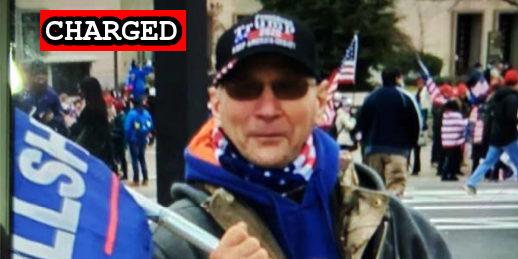
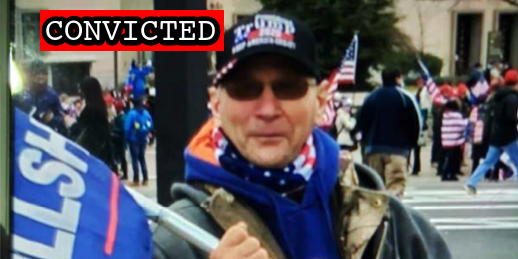
Latest import and sentencing

Changed region(s): [[0.0618, 0.0309, 0.4324, 0.2162]]

diff --git a/docs/_suspects/phillip-bromley.md b/docs/_suspects/phillip-bromley.md
@@ -4,18 +4,18 @@ lastName: Bromley
 hashtag: PhillipBromley
 aka:
 residence: Alabama
-status: Convicted
+status: Sentenced
 date: 2021-02-17
 charged: 2021-02-17
 indicted:
 convicted: 2021-12-01
 acquitted:
-sentenced:
+sentenced: 2022-06-29
 dismissed:
 deceased:
 plea_hearing: 2021-12-01
 trial_date:
-sentencing: 2022-06-22
+sentencing: 2022-06-29
 age: 47
 occupation: Nurse Anesthetist
 affiliations:
@@ -36,12 +36,16 @@ published: true
 caseNumber: 1:21-cr-250
 videos:
 charges:
-- code: 40 USC § 5104(e)(2)(D)
-  title: Disorderly Conduct in a Capitol Building
-  url: https://www.law.cornell.edu/uscode/text/40/5104
-  felony: false
+  - code: 40 USC § 5104(e)(2)(D)
+    title: Disorderly Conduct in a Capitol Building
+    url: https://www.law.cornell.edu/uscode/text/40/5104
+    felony: false
 sentence:
+  - 90 days incarceration
+  - 12 months probation
+  - $500 restitution
 ---
+
 - [News Report](https://www.al.com/news/2021/02/alabama-medical-worker-arrested-in-dc-riot-witnessed-ashli-babbitts-fatal-shooting.html)
 - [Complaint](https://extremism.gwu.edu/sites/g/files/zaxdzs2191/f/Phillip%20Andrew%20Bromley%20Criminal%20Complaint.pdf)
 - [Statement of Facts](https://www.justice.gov/usao-dc/case-multi-defendant/file/1371306/download)

diff --git a/docs/_suspects/paul-spigelmyer.md b/docs/_suspects/paul-spigelmyer.md
@@ -4,15 +4,17 @@ lastName: Spigelmyer
 hashtag: PaulSpigelmyer
 aka:
 residence: Pennsylvania
-status: Charged
+status: Convicted
 date: 2021-02-12
 charged: 2021-02-12
 indicted:
-convicted: 
+convicted: 2022-06-29
+acquitted:
 sentenced: 
 dismissed: 
 deceased:
-plea_hearing:
+plea_hearing: 2022-06-29
+trial_date:
 sentencing:
 age:
 occupation:
@@ -34,9 +36,15 @@ published: true
 caseNumber: 1:21-cr-218
 videos:
 charges:
+- code: 40 USC § 5104(e)(2)(G)
+  title: Parading, demonstrating or picketing in a Capitol building
+  url: https://www.law.cornell.edu/uscode/text/40/5104
+  felony: false
 sentence:
 ---
 - [News Report](https://www.abc27.com/news/top-stories/three-mifflin-county-residents-charged-in-u-s-capitol-riot/)
 - [Statement of Facts](https://www.justice.gov/usao-dc/case-multi-defendant/file/1371321/download)
 - [DOJ Press Release](https://www.justice.gov/usao-dc/case-multi-defendant/file/1377831/download)
 - [Information](https://www.justice.gov/usao-dc/case-multi-defendant/file/1377831/download)
+- [Plea Agreement](https://www.justice.gov/usao-dc/case-multi-defendant/file/1516491/download)
+- [Statement of Offense](https://www.justice.gov/usao-dc/case-multi-defendant/file/1516496/download)

diff --git a/docs/_suspects/william-pepe.md b/docs/_suspects/william-pepe.md
@@ -13,6 +13,7 @@ sentenced:
 dismissed:
 deceased:
 plea_hearing:
+trial_date: 2023-07-17
 sentencing:
 age: 31
 occupation:
@@ -36,6 +37,7 @@ videos:
 charges:
 sentence:
 ---
+
 - [News Report](https://www.foxnews.com/us/new-york-mta-metro-north-capitol-riots)
 - [DOJ Press Release](https://www.justice.gov/usao-dc/pr/seven-charged-federal-court-following-events-united-capitol)
 - [Statement of Facts](https://www.justice.gov/usao-dc/press-release/file/1353216/download)
